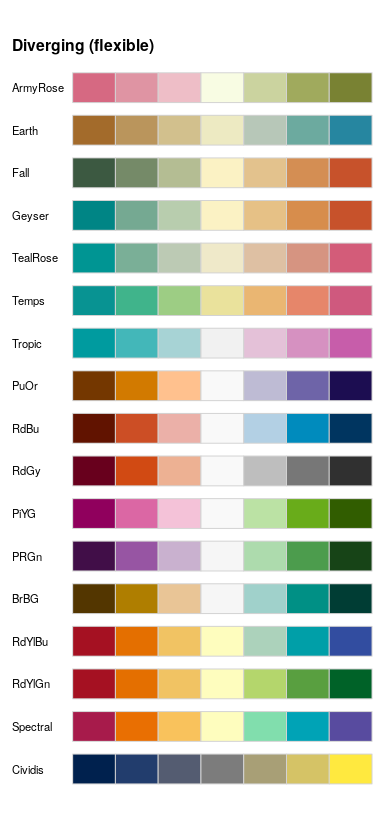
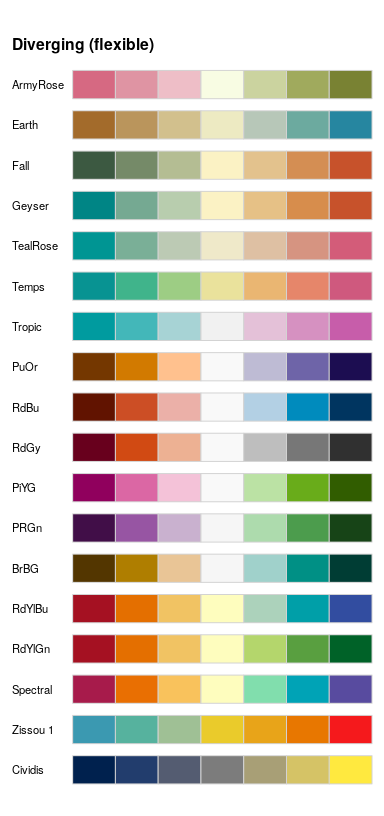
update web page with recent changes
git-svn-id: svn://svn.r-forge.r-project.org/svnroot/colorspace@470 edb9625f-4e0d-4859-8d74-9fd3b1da38cb

diff --git a/www/articles/hcl_palettes.html b/www/articles/hcl_palettes.html
@@ -127,7 +127,7 @@
 <li>
 <em>Diverging:</em> Designed for coding ordered/numeric information around a central neutral value, i.e., where colors diverge from neutral to two extremes.</li>
 </ul>
-<p>The corresponding functions are <code><a href="../reference/hcl_palettes.html">qualitative_hcl()</a></code>, <code><a href="../reference/hcl_palettes.html">sequential_hcl()</a></code>, and <code><a href="../reference/hcl_palettes.html">diverging_hcl()</a></code>. Their construction principles are exemplified in the following color swatches and explained in more detail below. The desaturated palettes bring out clearly that luminance differences (= light-dark contrasts), or the lack thereof, are crucial for coding the different kinds of palettes.</p>
+<p>The corresponding functions are <code><a href="../reference/hcl_palettes.html">qualitative_hcl()</a></code>, <code><a href="../reference/hcl_palettes.html">sequential_hcl()</a></code>, and <code><a href="../reference/hcl_palettes.html">diverging_hcl()</a></code>. Their construction principles are exemplified in the following color swatches and explained in more detail below. The desaturated palettes bring out clearly that luminance differences (= light-dark contrasts) are crucial for sequential and diverging palettes while qualitative palettes are balanced at the same luminance.</p>
 <p><img src="hcl_palettes_files/figure-html/hcl-palettes-principles-1.png" width="100%" style="display: block; margin: auto;"></p>
 <p>More details about the construction of such palettes is provided in the following while the article on <a href="palette_visualization.html">Palette Visualization and Assessment</a> introduces further tools to better understand the properties of color palettes.</p>
 <p>To facilitate obtaining good sets of colors, HCL parameter combinations that yield useful palettes are accessible by name. These can be listed using the function <code><a href="../reference/hcl_palettes.html">hcl_palettes()</a></code>:</p>
@@ -189,20 +189,20 @@
 <div id="sequential-palettes-single-hue" class="section level2">
 <h2 class="hasAnchor">
 <a href="#sequential-palettes-single-hue" class="anchor"></a>Sequential palettes (single-hue)</h2>
-<p><code><a href="../reference/hcl_palettes.html">sequential_hcl()</a></code> codes the underlying numeric values by a monotonic sequence of increasing (or decreasing) luminance. Thus, the <code>l</code> argument should provide a vector of length 2 with starting and ending luminance (equivalently, <code>l1</code> and <code>l2</code> can be used). Without chroma (i.e., <code>c = 0</code>), this simply corresponds to a grayscale palette like <code><a href="https://www.rdocumentation.org/packages/grDevices/topics/gray.colors">gray.colors()</a></code>, see “Grays” and “Light Grays” below.</p>
+<p><code><a href="../reference/hcl_palettes.html">sequential_hcl()</a></code> codes the underlying numeric values by a monotonic sequence of increasing (or decreasing) luminance. Thus, the function’s <code>l</code> argument should provide a vector of length 2 with starting and ending luminance (equivalently, <code>l1</code> and <code>l2</code> can be used). Without chroma (i.e., <code>c = 0</code>), this simply corresponds to a grayscale palette like <code><a href="https://www.rdocumentation.org/packages/grDevices/topics/gray.colors">gray.colors()</a></code>, see “Grays” and “Light Grays” below.</p>
 <p>For adding chroma, a simple strategy would be to pick a single hue (via <code>h</code> or <code>h1</code>) and then decrease chroma from some value (<code>c</code> or <code>c1</code>) to zero (i.e., gray) along with increasing luminance. For bringing out the extremes (a dark high-chroma color vs. a light gray) this is already very effective, see “Blues 2”, “Purples 2”, “Reds 2”, and “Greens 2”.</p>
-<p>For distinguishing also colors in the middle two strategies can be employed: (a) Hue can be varied as well by specifying an interval of hues in <code>h</code> (or beginning hue <code>h1</code> and ending hue <code>h2</code>). More details are provided in the next section. (b) Instead of a decreasing chroma a triangular chroma trajectory can be employed from <code>c1</code> over <code>cmax</code> to <code>c2</code> (or equivalently a vector <code>c</code> of length 3). This yields high-chroma colors in the middle of the palette that are more easily distinguished from the dark and light extremes. See “Blues 3”, “Purples 3”, “Reds 3”, and “Greens 3” below.</p>
-<p>Instead of employing linear trajectories in the chroma or luminance coordinates some palettes employ a power transformation of the chroma and/or luminance trajectory. Either a vector <code>power</code> of length 2 or separate <code>p1</code> (for chroma) and <code>p2</code> (for luminance) can be specified. If missing, the latter defaults to the former.</p>
+<p>For distinguishing colors in the middle, two strategies can be employed: (a) Hue can be varied as well by specifying an interval of hues in <code>h</code> (or beginning hue <code>h1</code> and ending hue <code>h2</code>). More details are provided in the next section. (b) Instead of a decreasing chroma a triangular chroma trajectory can be employed from <code>c1</code> over <code>cmax</code> to <code>c2</code> (or equivalently a vector <code>c</code> of length 3). This yields high-chroma colors in the middle of the palette that are more easily distinguished from the dark and light extremes. See “Blues 3”, “Purples 3”, “Reds 3”, and “Greens 3” below.</p>
+<p>Instead of employing linear trajectories in the chroma or luminance coordinates, some palettes employ a power transformation of the chroma and/or luminance trajectory. Either a vector <code>power</code> of length 2 or separate <code>p1</code> (for chroma) and <code>p2</code> (for luminance) can be specified. If missing, the latter defaults to the former.</p>
 <div class="sourceCode" id="cb14"><pre class="sourceCode r"><code class="sourceCode r"><a class="sourceLine" id="cb14-1" title="1"><span class="kw"><a href="../reference/hcl_palettes.html">hcl_palettes</a></span>(<span class="st">"sequential (single-hue)"</span>, <span class="dt">n =</span> <span class="dv">7</span>, <span class="dt">plot =</span> <span class="ot">TRUE</span>)</a></code></pre></div>
 <p><img src="hcl_palettes_files/figure-html/hcl-palettes-sequentials-1.png" width="70%" style="display: block; margin: auto;"></p>
-<p>All except the last palette are inspired by the <em>ColorBrewer.org</em> palettes with the same base name <span class="citation">(Harrower and Brewer 2003)</span> but restricted to a single hue only. They are intended for a white/light background. The last palette is taken from the scientific color maps of <span class="citation">Crameri (2018)</span> and is intended for a black/dark background and hence the order is reversed starting from a light blue (not a light gray).</p>
+<p>All except the last palette are inspired by the <em>ColorBrewer.org</em> palettes with the same base name <span class="citation">(Harrower and Brewer 2003)</span> but restricted to a single hue only. They are intended for a white/light background. The last palette (Oslo) is taken from the scientific color maps of <span class="citation">Crameri (2018)</span> and is intended for a black/dark background and hence the order is reversed starting from a light blue (not a light gray).</p>
 <p>To distinguish many colors in a sequential palette it is important to have a strong contrast on the luminance axis, possibly enhanced by an accompanying pronounced variation in chroma. When only a few colors are needed (e.g., for coding an ordinal categorical variable with few levels) then a lower luminance contrast may suffice.</p>
 </div>
 <div id="sequential-palettes-multi-hue" class="section level2">
 <h2 class="hasAnchor">
 <a href="#sequential-palettes-multi-hue" class="anchor"></a>Sequential palettes (multi-hue)</h2>
-<p>To not only bring out extreme colors in a sequential palette but also better distinguish middle colors it is a common strategy to employ a sequence of hues. Thus, the basis of such a palette is still a monotonic luminance sequence as above (combined with a monotonic or triangular chroma sequence). But, instead of a single hue, an interval of hues in <code>h</code> (or beginning hue <code>h1</code> and ending hue <code>h2</code>) is specified.</p>
-<p><code><a href="../reference/hcl_palettes.html">sequential_hcl()</a></code> allows to combine variations in hue (<code>h</code> and <code>h1</code>/<code>h2</code>, respectively), chroma (<code>c</code> and <code>c1</code>/<code>c2</code>/<code>cmax</code>, respectively), luminance (<code>l</code> and <code>l1</code>/<code>l2</code>, respectively), and power transformations for the chroma and luminance trajectories (<code>power</code> and <code>p1</code>/<code>p2</code>, respectively). This yields a broad variety of sequential palettes, including many that closely match other well-known color palettes. The plot below shows all the named multi-hue sequential palettes in <em>colorspace</em>:</p>
+<p>To not only bring out extreme colors in a sequential palette but also better distinguish middle colors it is a common strategy to employ a sequence of hues. Thus, the basis of such a palette is still a monotonic luminance sequence as above (combined with a monotonic or triangular chroma sequence). But rather than using a single hue, an interval of hues in <code>h</code> (or beginning hue <code>h1</code> and ending hue <code>h2</code>) can be specified.</p>
+<p><code><a href="../reference/hcl_palettes.html">sequential_hcl()</a></code> allows combined variations in hue (<code>h</code> and <code>h1</code>/<code>h2</code>, respectively), chroma (<code>c</code> and <code>c1</code>/<code>c2</code>/<code>cmax</code>, respectively), luminance (<code>l</code> and <code>l1</code>/<code>l2</code>, respectively), and power transformations for the chroma and luminance trajectories (<code>power</code> and <code>p1</code>/<code>p2</code>, respectively). This yields a broad variety of sequential palettes, including many that closely match other well-known color palettes. The plot below shows all the named multi-hue sequential palettes in <em>colorspace</em>:</p>
 <ul>
 <li>“Purple-Blue” to “Terrain 2” are various palettes created during the development of <em>colorspace</em>, e.g., by <span class="citation">Zeileis, Hornik, and Murrell (2009)</span> or <span class="citation">Stauffer et al. (2015)</span> among others.</li>
 <li>“Viridis” to “Inferno” closely match the palettes that <span class="citation">Smith and Van der Walt (2015)</span> developed for <em>matplotlib</em> and that gained popularity recently.</li>
@@ -324,6 +324,7 @@ j = \left(1 + \frac{|c_\max - c_1|}{|c_\max - c_2|} \right)^{-1}
 <ul>
 <li>“ArmyRose” to “Tropic” closely match the palettes of the same name from <em>CARTO</em> <span class="citation">(CARTO 2019)</span>.</li>
 <li>“PuOr” to “Spectral” closely match the palettes of the same name from <em>ColorBrewer.org</em> <span class="citation">(Harrower and Brewer 2003)</span>.</li>
+<li>“Zissou 1” closely matches the palette of the same name from <em>wesanderson</em> <span class="citation">(Ram and Wickham 2018)</span>.</li>
 <li>“Cividis” closely matches the palette of the same name from the <em>viridis</em> family <span class="citation">(Garnier 2018)</span>. Note that despite having two “arms” with blue vs. yellow colors and a low-chroma center color, this is probably better classified as a sequential palette due to the monotonic chroma going from dark to light. (See <a href="approximations.html">Approximating Palettes from Other Packages</a> for more details.)</li>
 </ul>
 <div class="sourceCode" id="cb22"><pre class="sourceCode r"><code class="sourceCode r"><a class="sourceLine" id="cb22-1" title="1"><span class="kw"><a href="../reference/divergingx_hcl.html">divergingx_palettes</a></span>(<span class="dt">n =</span> <span class="dv">7</span>, <span class="dt">plot =</span> <span class="ot">TRUE</span>)</a></code></pre></div>
@@ -363,6 +364,9 @@ j = \left(1 + \frac{|c_\max - c_1|}{|c_\max - c_2|} \right)^{-1}
 </div>
 <div id="ref-color:Ihaka:2003">
 <p>Ihaka, Ross. 2003. “Colour for Presentation Graphics.” In <em>Proceedings of the 3rd International Workshop on Distributed Statistical Computing, Vienna, Austria</em>, edited by Kurt Hornik, Friedrich Leisch, and Achim Zeileis. <a href="http://www.ci.tuwien.ac.at/Conferences/DSC-2003/Proceedings/" class="uri">http://www.ci.tuwien.ac.at/Conferences/DSC-2003/Proceedings/</a>.</p>
+</div>
+<div id="ref-color:wesanderson">
+<p>Ram, Karthik, and Hadley Wickham. 2018. <em><span style="font-style:normal;">Wesanderson</span>: A Wes Anderson Palette Generator</em>. <a href="https://CRAN.R-project.org/package=wesanderson" class="uri">https://CRAN.R-project.org/package=wesanderson</a>.</p>
 </div>
 <div id="ref-color:Smith+VanDerWalt:2015">
 <p>Smith, Nathaniel, and Stéfan Van der Walt. 2015. “A Better Default Colormap for <em>Matplotlib</em>.” In <em>SciPy 2015 – Scientific Computing with <span class="sans-serif">Python</span></em>. Austin. <a href="https://www.youtube.com/watch?v=xAoljeRJ3lU" class="uri">https://www.youtube.com/watch?v=xAoljeRJ3lU</a>.</p>

diff --git a/www/articles/colorspace.html b/www/articles/colorspace.html
@@ -158,15 +158,15 @@
 <div id="choosing-hcl-based-color-palettes" class="section level2">
 <h2 class="hasAnchor">
 <a href="#choosing-hcl-based-color-palettes" class="anchor"></a>Choosing HCL-based color palettes</h2>
-<p>The <em>colorspace</em> package ships with a wide range of predefined color palettes, specified through suitable trajectories in the HCL (hue-chroma-luminance) color space. A quick overview can be gained easily with <code><a href="../reference/hcl_palettes.html">hcl_palettes()</a></code>:</p>
+<p>The <em>colorspace</em> package ships with a wide range of predefined color palettes, specified through suitable trajectories in the HCL (hue-chroma-luminance) color space. A quick overview can be gained easily with the <code><a href="../reference/hcl_palettes.html">hcl_palettes()</a></code> function:</p>
 <div class="sourceCode" id="cb3"><pre class="sourceCode r"><code class="sourceCode r"><a class="sourceLine" id="cb3-1" title="1"><span class="kw"><a href="https://www.rdocumentation.org/packages/base/topics/library">library</a></span>(<span class="st">"colorspace"</span>)</a>
 <a class="sourceLine" id="cb3-2" title="2"><span class="kw"><a href="../reference/hcl_palettes.html">hcl_palettes</a></span>(<span class="dt">plot =</span> <span class="ot">TRUE</span>)</a></code></pre></div>
 <p><img src="colorspace_files/figure-html/hcl-palettes-1.png" width="100%" style="display: block; margin: auto auto auto 0;"></p>
-<p>Using the names from the plot above and a desired number of colors in the palette a suitable color vector can be easily computed, e.g.,</p>
+<p>A suitable vector of colors can be easily computed by specifying the desired number of colors and palette name (see the plot above), e.g.,</p>
 <div class="sourceCode" id="cb4"><pre class="sourceCode r"><code class="sourceCode r"><a class="sourceLine" id="cb4-1" title="1">q4 &lt;-<span class="st"> </span><span class="kw"><a href="../reference/hcl_palettes.html">qualitative_hcl</a></span>(<span class="dv">4</span>, <span class="dt">palette =</span> <span class="st">"Dark 3"</span>)</a>
 <a class="sourceLine" id="cb4-2" title="2">q4</a></code></pre></div>
 <pre><code>## [1] "#E16A86" "#909800" "#00AD9A" "#9183E6"</code></pre>
-<p>The functions <code><a href="../reference/hcl_palettes.html">sequential_hcl()</a></code>, and <code><a href="../reference/hcl_palettes.html">diverging_hcl()</a></code> work analogously. Additionally, their hue/chroma/luminance parameters can be modified, thus allowing to easily customize each palette. Moreover, the <code><a href="../reference/choose_palette.html">choose_palette()</a></code>/<code><a href="../reference/choose_palette.html">hclwizard()</a></code> app provide convenient user interfaces to do the customization interactively. Finally, even more flexible diverging HCL palettes are provided by <code><a href="../reference/divergingx_hcl.html">divergingx_hcl()</a></code>.</p>
+<p>The functions <code><a href="../reference/hcl_palettes.html">sequential_hcl()</a></code>, and <code><a href="../reference/hcl_palettes.html">diverging_hcl()</a></code> work analogously. Additionally, their hue/chroma/luminance parameters can be modified, thus allowing to easily customize each palette. Moreover, the <code><a href="../reference/choose_palette.html">choose_palette()</a></code>/<code><a href="../reference/choose_palette.html">hclwizard()</a></code> app provide convenient user interfaces to perform palette customization interactively. Finally, even more flexible diverging HCL palettes are provided by <code><a href="../reference/divergingx_hcl.html">divergingx_hcl()</a></code>.</p>
 </div>
 <div id="usage-with-base-graphics" class="section level2">
 <h2 class="hasAnchor">
@@ -185,12 +185,12 @@
 <a href="#usage-with-ggplot2" class="anchor"></a>Usage with <em>ggplot2</em>
 </h2>
 <p>To plug the HCL color palettes into <em>ggplot2</em> graphics suitable discrete and/or continuous <em>gglot2</em> color scales are provided. The scales are called via the scheme <code>scale_&lt;aesthetic&gt;_&lt;datatype&gt;_&lt;colorscale&gt;()</code>, where <code>&lt;aesthetic&gt;</code> is the name of the aesthetic (<code>fill</code>, <code>color</code>, <code>colour</code>), <code>&lt;datatype&gt;</code> is the type of the variable plotted (<code>discrete</code> or <code>continuous</code>) and <code>&lt;colorscale&gt;</code> sets the type of the color scale used (<code>qualitative</code>, <code>sequential</code>, <code>diverging</code>, <code>divergingx</code>).</p>
-<p>To illustrate their usage two simple examples are shown using the qualitative <code>Dark 3</code> and sequential <code>Purples 3</code> palettes that were also employed above. First, semi-transparent shaded densities of the sepal length from the iris data are shown, grouped by species.</p>
+<p>To illustrate their usage two simple examples are shown using the qualitative <code>Dark 3</code> and sequential <code>Purples 3</code> palettes that were also employed above. For the first example, semi-transparent shaded densities of the sepal length from the iris data are shown, grouped by species.</p>
 <div class="sourceCode" id="cb8"><pre class="sourceCode r"><code class="sourceCode r"><a class="sourceLine" id="cb8-1" title="1"><span class="kw"><a href="https://www.rdocumentation.org/packages/base/topics/library">library</a></span>(<span class="st">"ggplot2"</span>)</a>
 <a class="sourceLine" id="cb8-2" title="2"><span class="kw"><a href="https://ggplot2.tidyverse.org/reference/ggplot.html">ggplot</a></span>(iris, <span class="kw"><a href="https://ggplot2.tidyverse.org/reference/aes.html">aes</a></span>(<span class="dt">x =</span> Sepal.Length, <span class="dt">fill =</span> Species)) <span class="op">+</span><span class="st"> </span><span class="kw"><a href="https://ggplot2.tidyverse.org/reference/geom_density.html">geom_density</a></span>(<span class="dt">alpha =</span> <span class="fl">0.6</span>) <span class="op">+</span></a>
 <a class="sourceLine" id="cb8-3" title="3"><span class="st">  </span><span class="kw"><a href="../reference/scale_colour_discrete_qualitative.html">scale_fill_discrete_qualitative</a></span>(<span class="dt">palette =</span> <span class="st">"Dark 3"</span>)</a></code></pre></div>
 <p><img src="colorspace_files/figure-html/iris-ggplot-1.png" width="100%" style="display: block; margin: auto auto auto 0;"></p>
-<p>The sequential palette is used to code the cut levels in a scatter of price by carat in the diamonds data (or rather a small subsample thereof). The scale function first generates six colors but then drops the first color because the light gray is too light in this display. (Alternatively, the chroma and luminance parameters could also be tweaked.)</p>
+<p>And for the second example the sequential palette is used to code the cut levels in a scatter of price by carat in the diamonds data (or rather a small subsample thereof). The scale function first generates six colors but then drops the first color because the light gray is too light here. (Alternatively, the chroma and luminance parameters could also be tweaked.)</p>
 <div class="sourceCode" id="cb9"><pre class="sourceCode r"><code class="sourceCode r"><a class="sourceLine" id="cb9-1" title="1">dsamp &lt;-<span class="st"> </span>diamonds[<span class="dv">1</span> <span class="op">+</span><span class="st"> </span><span class="dv">1</span><span class="op">:</span><span class="dv">1000</span> <span class="op">*</span><span class="st"> </span><span class="dv">50</span>, ]</a>
 <a class="sourceLine" id="cb9-2" title="2"><span class="kw"><a href="https://ggplot2.tidyverse.org/reference/ggplot.html">ggplot</a></span>(dsamp, <span class="kw"><a href="https://ggplot2.tidyverse.org/reference/aes.html">aes</a></span>(carat, price, <span class="dt">color =</span> cut)) <span class="op">+</span><span class="st"> </span><span class="kw"><a href="https://ggplot2.tidyverse.org/reference/geom_point.html">geom_point</a></span>() <span class="op">+</span></a>
 <a class="sourceLine" id="cb9-3" title="3"><span class="st">  </span><span class="kw"><a href="../reference/scale_colour_discrete_sequential.html">scale_color_discrete_sequential</a></span>(<span class="dt">palette =</span> <span class="st">"Purples 3"</span>, <span class="dt">nmax =</span> <span class="dv">6</span>, <span class="dt">order =</span> <span class="dv">2</span><span class="op">:</span><span class="dv">6</span>)</a></code></pre></div>
@@ -222,7 +222,7 @@
 <a class="sourceLine" id="cb11-4" title="4"><span class="kw"><a href="../reference/specplot.html">specplot</a></span>(s9, <span class="dt">type =</span> <span class="st">"o"</span>)</a></code></pre></div>
 <p><img src="colorspace_files/figure-html/allplots-sequential-1.png" width="100%" style="display: block; margin: auto;"></p>
 <p>Here, a heatmap (based on the well-known Maunga Whau volcano data) is used as a typical application for a sequential palette. The elevation of the volcano is brought out clearly, focusing with the dark colors on the higher elevations.</p>
-<p>The other two displays show that hue is constant in the palette while luminance and chroma vary. Luminance increases monotonically from dark to light (as required for a proper sequential palette). Chroma is triangular-shaped which allows to better distinguish the middle colors in the palette (compared to a monotonic chroma trajectory).</p>
+<p>The other two displays show that hue is constant in the palette while luminance and chroma vary. Luminance increases monotonically from dark to light (as required for a proper sequential palette). Chroma is triangular-shaped which allows to better distinguish the middle colors in the palette when compared to a monotonic chroma trajectory.</p>
 </div>
   </div>
 

diff --git a/www/articles/color_vision_deficiency.html b/www/articles/color_vision_deficiency.html
@@ -118,9 +118,9 @@
 <div id="overview" class="section level2">
 <h2 class="hasAnchor">
 <a href="#overview" class="anchor"></a>Overview</h2>
-<p>Using the physiologically-based model for simulating color vision deficiency (CVD) of <span class="citation">Machado, Oliveira, and Fernandes (2009)</span> different kinds of limitations can be emulated: deuteranope (green cone cells defective), protanope (red cone cells defective), and tritanope (blue cone cells defective). The workhorse function to do so is <code><a href="../reference/simulate_cvd.html">simulate_cvd()</a></code> which can take any vector of valid R colors and transform them according to a certain CVD transformation matrix and transformation equation. The transformation matrices have been established by <span class="citation">Machado, Oliveira, and Fernandes (2009)</span> and are provided in objects <code>protanomaly_cvd</code>, <code>deutanomaly_cvd</code>, and <code>tritanomaly_cvd</code>.</p>
-<p>The convenience interfaces <code><a href="../reference/simulate_cvd.html">deutan()</a></code>, <code><a href="../reference/simulate_cvd.html">protan()</a></code>, and <code><a href="../reference/simulate_cvd.html">tritan()</a></code> are the high-level functions for simulating the corresponding kind of color blindness with a given severity (calling <code><a href="../reference/simulate_cvd.html">simulate_cvd()</a></code> internally).</p>
-<p>For further guidance on color blindness in relation to statistical graphics see <span class="citation">Lumley (2006)</span> which accompanies the R package <em>dichromat</em> <span class="citation">(Lumley 2013)</span> and is based on earlier emulation techniques <span class="citation">(Viénot et al. 1995; Brettel, Viénot, and Mollon 1997; Viénot, Brettel, and Mollon 1999)</span>.</p>
+<p>Different kinds of limitations can be emulated using the physiologically-based model for simulating color vision deficiency (CVD) of <span class="citation">Machado, Oliveira, and Fernandes (2009)</span>: deuteranomaly (green cone cells defective), protanomaly (red cone cells defective), and tritanomaly (blue cone cells defective). While most other CVD simulations handle only dichromacy, where one of three cones is non-functional, <span class="citation">Machado, Oliveira, and Fernandes (2009)</span> provides a unified model of both dichromacy and anomalous trichromacy, where one cone has shifted spectral sensitivity. As anomalous trichromacy is the most common form of color vision deficiency, it is important to emulate along with the rarer, but more severe dichromacy.</p>
+<p>The workhorse function to emulate color vision deficiencies is <code><a href="../reference/simulate_cvd.html">simulate_cvd()</a></code> which can take any vector of valid R colors and transform them according to a certain CVD transformation matrix and transformation equation. The transformation matrices have been established by <span class="citation">Machado, Oliveira, and Fernandes (2009)</span> and are provided in objects <code>protanomaly_cvd</code>, <code>deutanomaly_cvd</code>, and <code>tritanomaly_cvd</code>. The convenience interfaces <code><a href="../reference/simulate_cvd.html">deutan()</a></code>, <code><a href="../reference/simulate_cvd.html">protan()</a></code>, and <code><a href="../reference/simulate_cvd.html">tritan()</a></code> are the high-level functions for simulating the corresponding kind of color blindness with a given <code>severity</code> (calling <code><a href="../reference/simulate_cvd.html">simulate_cvd()</a></code> internally). A severity of <code>1</code> corresponds to dichromacy, <code>0</code> to normal color vision, and intermediate values to varying severities of anomalous trichromacy.</p>
+<p>For further guidance on color blindness in relation to statistical graphics see <span class="citation">Lumley (2006)</span> which accompanies the R package dichromat <span class="citation">(Lumley 2013)</span> and is based on earlier emulation techniques <span class="citation">(Viénot et al. 1995; Brettel, Viénot, and Mollon 1997; Viénot, Brettel, and Mollon 1999)</span>.</p>
 </div>
 <div id="illustration-heatmap-with-sequential-palette" class="section level2">
 <h2 class="hasAnchor">
@@ -162,7 +162,7 @@
 <p>CARTO. 2019. “CARTOColors – Data-Driven Color Schemes.” <a href="https://carto.com/carto-colors/" class="uri">https://carto.com/carto-colors/</a>.</p>
 </div>
 <div id="ref-color:Lumley:2006">
-<p>Lumley, Thomas. 2006. “Color Coding and Color Blindness in Statistical Graphics.” <em>ASA Statistical Computing &amp; Graphics Newsletter</em> 17 (2): 4–7. <a href="http://stat-computing.org/newletter/issues/scgn-17-2.pdf" class="uri">http://stat-computing.org/newletter/issues/scgn-17-2.pdf</a>.</p>
+<p>Lumley, Thomas. 2006. “Color Coding and Color Blindness in Statistical Graphics.” <em>ASA Statistical Computing &amp; Graphics Newsletter</em> 17 (2): 4–7. <a href="http://stat-computing.org/newsletter/issues/scgn-17-2.pdf" class="uri">http://stat-computing.org/newsletter/issues/scgn-17-2.pdf</a>.</p>
 </div>
 <div id="ref-color:dichromat">
 <p>———. 2013. <em><span style="font-style:normal;">Dichromat</span>: Color Schemes for Dichromats</em>. <a href="https://CRAN.R-project.org/package=dichromat" class="uri">https://CRAN.R-project.org/package=dichromat</a>.</p>

diff --git a/www/articles/approximations.html b/www/articles/approximations.html
@@ -130,7 +130,7 @@
 <p>See the discussion of <a href="hcl_palettes.html">HCL-based palettes</a> for more details. In the following sections <code><a href="../reference/specplot.html">specplot()</a></code> is used to compare the <a href="palette_visualization.html#hcl-and-rgb-spectrum">HCL spectrum</a> of the original palettes (top swatches, solid lines) and their HCL-based approximations (bottom swatches, dashed lines).</p>
 <p>Before, a selection of such approximations using <code><a href="../reference/specplot.html">specplot()</a></code> is highlighted and discussed in some more detail. Specifically, the graphic below shows two blue/green/yellow palettes (<code><a href="https://www.rdocumentation.org/packages/RColorBrewer/topics/ColorBrewer">RColorBrewer::brewer.pal(7, "YlGnBu")</a></code> and <code><a href="https://www.rdocumentation.org/packages/viridis/topics/reexports">viridis::viridis(7)</a></code>) and two purple/red/yellow (<code><a href="https://www.rdocumentation.org/packages/rcartocolor/topics/carto_pal">rcartocolor::carto_pal(7, "ag_Sunset")</a></code> and <code><a href="https://www.rdocumentation.org/packages/viridis/topics/reexports">viridis::plasma(7)</a></code>). Each panel compares the hue, chroma, and luminance trajectories of the original palettes (top swatches, solid lines) and their HCL-based approximations (bottom swatches, dashed lines). The palettes are not identical but very close for most colors. Note that also the chroma trajectories from the HCL palettes (green dashed lines) have some kinks which are due to fixing HCL coordinates at the boundaries of admissible RGB colors.</p>
 <p><img src="approximations_files/figure-html/brewer-carto-viridis-1.png" width="288"><img src="approximations_files/figure-html/brewer-carto-viridis-2.png" width="288"><img src="approximations_files/figure-html/brewer-carto-viridis-3.png" width="288"><img src="approximations_files/figure-html/brewer-carto-viridis-4.png" width="288"></p>
-<p>These graphics illustrate what sets the viridis palettes apart from other sequential palettes. While the hue and luminance trajectories of <code>"Viridis"</code> and <code>"YlGnBu"</code> are very similar, the chroma trajectories differ: While lighter colors (with high luminance) have low chroma for <code>"YlGnBu"</code>, they have increasing chroma for <code>"Viridis"</code>. Similarly, <code>"ag_Sunset"</code> and <code>"Plasma"</code> have similar hue and luminance trajectories but different chroma trajectories. The result is that the viridis palettes have rather high chroma throughout which does not work so well for sequential palettes on a white/light background as all shaded areas convey high “intensity”. However, they work better on a dark/black background. Also, they might be a reasonable alternative for qualitative palettes when grayscale printing should also work.</p>
+<p>These graphics illustrate what sets the viridis palettes apart from other sequential palettes. While the hue and luminance trajectories of <code>"Viridis"</code> and <code>"YlGnBu"</code> are very similar, the chroma trajectories differ: While lighter colors (with high luminance) have low chroma for <code>"YlGnBu"</code>, they have increasing chroma for <code>"Viridis"</code>. Similarly, <code>"ag_Sunset"</code> and <code>"Plasma"</code> have similar hue and luminance trajectories but different chroma trajectories. The result is that the viridis palettes have rather high chroma throughout which does not work as well for sequential palettes on a white/light background as all shaded areas convey high “intensity”. However, they work better on a dark/black background. Also, they might be a reasonable alternative for qualitative palettes when grayscale printing should also work.</p>
 <p>Another somewhat nonstandard palette from the viridis family is the cividis palette based on blue and yellow hues and hence safe for red-green deficient viewers. The figure below shows the corresponding <code><a href="../reference/specplot.html">specplot()</a></code> along with an HCL-based approximation. What is unusual about this palette: The hue and chroma trajectories would suggest a diverging palette, as there are two “arms” wth different hues and a zero-chroma point in the center. However, the luminance trajectory clearly indicates a sequential palette as colors go monotonically from dark to light. Due to this unusual mixture the palette cannot be composed using the trajectories discussed in the <a href="hcl_palettes.html#construction-details">construction details</a>.</p>
 <p><img src="approximations_files/figure-html/cividis-1.png" width="288"></p>
 <p>However, the tools in <em>colorspace</em> can still be employed to easily reconstruct the palette. One strategy would be to set up the trajectories manually, using a linear luminance, piecewise linear chroma, and piecewise constant hue:</p>

diff --git a/www/articles/color_spaces.html b/www/articles/color_spaces.html
@@ -118,9 +118,9 @@
 <div id="overview" class="section level2">
 <h2 class="hasAnchor">
 <a href="#overview" class="anchor"></a>Overview</h2>
-<p>At the core of the <em>colorspace</em> package there are various utilities for computing with color spaces (as the name conveys). Thus, the package helps to map various three-dimensional representations of color to each other, see <span class="citation">Ihaka (2003)</span>. A particularly important mapping is the one from the perceptually-based and device-independent color model HCL (Hue-Chroma-Luminance) to standard Red-Green-Blue (sRGB) which is the basis for color specifications in many systems based on the corresponding hex codes (e.g., in HTML but also in R). For completeness further standard color models are included as well in the package. The connections are illustrated in the following graph:</p>
+<p>At the core of the <em>colorspace</em> package are various utilities for computing with color spaces (as the name conveys). Thus, the package helps to map various three-dimensional representations of color to each other <span class="citation">(Ihaka 2003)</span>. A particularly important mapping is the one from the perceptually-based and device-independent color model HCL (Hue-Chroma-Luminance) to standard Red-Green-Blue (sRGB) which is the basis for color specifications in many systems based on the corresponding hex codes (e.g., in HTML but also in R). For completeness further standard color models are included as well in the package. The connections are illustrated in the following graph:</p>
 <p><img src="color_spaces_files/figure-html/color-spaces-1.png" width="912" style="display: block; margin: auto;"></p>
-<p>Color models that are (or try to be) perceptually-based are displayed with circles, other color models with rectangles. The corresponding classes and eponymous class constructors in <em>colorspace</em> are:</p>
+<p>Color models that are (or try to be) perceptually-based are displayed with circles and models that are not are displayed with rectangles. The corresponding classes and eponymous class constructors in <em>colorspace</em> are:</p>
 <ul>
 <li>
 <code><a href="../reference/RGB.html">RGB()</a></code> for the classic Red-Green-Blue color model that mixes three primary colors with different intensities to obtain a spectrum of colors. The advantage of this color model is (or was) that it corresponded to how computer and TV screens generated colors, hence it was widely adopted and still is the basis for color specifications in many systems. For example, the hex color codes are employed in HTML but also in R. However, the RGB model also has some important drawbacks: It does not take into account the output device properties, it is not perceptually uniform (a unit step within RGB does not produce a constant perceptual change in color), and it is unintuitive for humans to specify colors (say brown or pink) in this space. <span class="citation">(See Wikipedia 2019e.)</span>
@@ -176,7 +176,7 @@
 ## [1,] 70 50   0
 ## [2,] 70 50 120
 ## [3,] 70 50 240</code></pre>
-<p>These are pastel red (hue = 0), green (hue = 120), and blue (hue = 240) with moderate chroma and luminance. For display in other systems an sRGB representation might be needed:</p>
+<p>The resulting three colors are pastel red (hue = 0), green (hue = 120), and blue (hue = 240) with moderate chroma and luminance. For display in other systems an sRGB representation might be needed:</p>
 <div class="sourceCode" id="cb3"><pre class="sourceCode r"><code class="sourceCode r"><a class="sourceLine" id="cb3-1" title="1">(y &lt;-<span class="st"> </span><span class="kw">as</span>(x, <span class="st">"sRGB"</span>))</a></code></pre></div>
 <pre><code>##              R         G         B
 ## [1,] 0.8931564 0.5853740 0.6465459

diff --git a/www/articles/endrainbow.html b/www/articles/endrainbow.html
@@ -181,7 +181,7 @@
 <p>The shaded map below was taken from the web site of the <a href="https://influenza.rki.de/">Robert Koch-Institut</a> (Arbeitsgemeinschaft Influenza) and it shows the severity of influenza in Germany in week 8, 2019. The original color palette (left) is the classic rainbow ranging from “normal” (blue) to “strongly increased” (red). As all colors in the palette are very flashy and highly-saturated it is hard to grasp intuitively which areas are most affected by influenza. Also, the least interesting “normal” areas stand out as blue is the darkest color in the palette.</p>
 <p>As an alternative, a proper multi-hue <code><a href="../reference/hcl_palettes.html">sequential_hcl(99, "Purple-Yellow")</a></code> palette is used on the right. This has smooth gradients and the overall message can be grasped quickly, giving focus to the high-risk regions depicted with dark/colorful colors. However, the extremely sharp transitions between “normal” and “strongly increased” areas (e.g., in the North and the East) might indicate some overfitting in the underlying smoothing for the map.</p>
 <p><img src="screenshots/influenza-rainbow.png" style="width:49.0%"><img src="screenshots/influenza-purpleyellow.png" style="width:49.0%"></p>
-<p>Converting all colors to grayscale brings out even more clearly why the overall picture is so hard to grasp with the original palette: The gradients are discontinuous switching several times between bright and dark. Thus, it is hard to identify the high-risk regions with while this is more natural and straightforward with the HCL-based sequential palette.</p>
+<p>Converting all colors to grayscale brings out even more clearly why the overall picture is so hard to grasp with the original palette: The gradients are discontinuous switching several times between bright and dark. Thus, it is hard to identify the high-risk regions while this is more natural and straightforward with the HCL-based sequential palette.</p>
 <p><img src="screenshots/influenza-rainbow-gray.png" style="width:49.0%"><img src="screenshots/influenza-purpleyellow-gray.png" style="width:49.0%"></p>
 <p>Emulating deuteranope vision emphasizes the same problems as the desaturated version above but shows even more problems with the original palette.</p>
 <p><img src="screenshots/influenza-rainbow-deutan.png" style="width:49.0%"><img src="screenshots/influenza-purpleyellow-deutan.png" style="width:49.0%"></p>

diff --git a/www/articles/palette_visualization.html b/www/articles/palette_visualization.html
@@ -133,7 +133,7 @@
 <div id="color-swatches" class="section level2">
 <h2 class="hasAnchor">
 <a href="#color-swatches" class="anchor"></a>Color swatches</h2>
-<p>The function <code><a href="../reference/swatchplot.html">swatchplot()</a></code> is a convenience function for displaying collections of palettes that can be specified as lists or matrices of hex color codes. Essentially, it is just a call to the base graphics <code><a href="https://www.rdocumentation.org/packages/graphics/topics/rect">rect()</a></code> function but with heuristics for choosing default labels, margins, spacings, borders, etc. These are selected to work well for <code><a href="../reference/hcl_palettes.html">hcl_palettes()</a></code> and might need further tweaking in future versions.</p>
+<p>The function <code><a href="../reference/swatchplot.html">swatchplot()</a></code> is a convenience function for displaying collections of palettes that can be specified as lists or matrices of hex color codes. Essentially, it is just a call to the base graphics <code><a href="https://www.rdocumentation.org/packages/graphics/topics/rect">rect()</a></code> function but with heuristics for choosing default labels, margins, spacings, borders, etc. These heuristics are selected to work well for <code><a href="../reference/hcl_palettes.html">hcl_palettes()</a></code> and might need further tweaking in future versions of the package.</p>
 <p>As a first simple example, the properties of the three HCL axes are brought out by varying only one coordinate while keeping the other two fixed:</p>
 <div class="sourceCode" id="cb1"><pre class="sourceCode r"><code class="sourceCode r"><a class="sourceLine" id="cb1-1" title="1"><span class="kw"><a href="../reference/swatchplot.html">swatchplot</a></span>(</a>
 <a class="sourceLine" id="cb1-2" title="2">  <span class="st">"Hue"</span>       =<span class="st"> </span><span class="kw"><a href="../reference/hcl_palettes.html">sequential_hcl</a></span>(<span class="dv">5</span>, <span class="dt">h =</span> <span class="kw"><a href="https://www.rdocumentation.org/packages/base/topics/c">c</a></span>(<span class="dv">0</span>, <span class="dv">300</span>), <span class="dt">c =</span> <span class="kw"><a href="https://www.rdocumentation.org/packages/base/topics/c">c</a></span>(<span class="dv">60</span>, <span class="dv">60</span>), <span class="dt">l =</span> <span class="dv">65</span>),</a>

diff --git a/www/news/index.html b/www/news/index.html
@@ -153,6 +153,7 @@
 <ul>
 <li><p>New article/vignette “Somewhere over the Rainbow” with published examples of RGB rainbow palettes (or similar highly saturated and non-monotonic palettes).</p></li>
 <li><p>New sequential multi-hue palette: Purple-Yellow. This is a slightly improved version (i.e., with higher luminance contrast) of the palette used in Figure 4 of <a href="https://dx.doi.org/10.1175/BAMS-D-13-00155.1">Stauffer <em>et al.</em> (2015, BAMS)</a>.</p></li>
+<li><p>New flexible diverging palette Zissou 1 in divergingx_hcl(). This closely matches the palette of the same name in <em>wesanderson</em>. Note that this is rather unbalanced, has relatively low luminance contrasts and uses very high chroma throughout.</p></li>
 <li><p>New palette Cividis in <code><a href="../reference/divergingx_hcl.html">divergingx_hcl()</a></code> approximating the palette of the same name from the viridis family. While luminance increases monotonically from dark to light in the palette (thus indicating a <em>sequential</em> and not a <em>diverging</em> palette), the hue and chroma trajectories resemble a diverging pattern. Therefore, the flexibility of <code><a href="../reference/divergingx_hcl.html">divergingx_hcl()</a></code> is needed and the palette could not be approximated by <code><a href="../reference/hcl_palettes.html">sequential_hcl()</a></code>.</p></li>
 </ul>
 </div>

diff --git a/www/reference/divergingx_hcl.html b/www/reference/divergingx_hcl.html
@@ -264,8 +264,9 @@ palettes that can thus go through a non-gray neutral color (typically light
 yellow). Consequently, the chroma/luminance paths can be rather unbalanced
 between the two arms.</p>
 <p>With this additional flexibility various diverging palettes suggested by
-<a href='http://ColorBrewer.org/'>http://ColorBrewer.org/</a>, CARTO (<a href='https://carto.com/carto-colors/'>https://carto.com/carto-colors/</a>),
-or <span class="pkg">viridis</span> can be emulated.</p>
+<a href='http://ColorBrewer.org/'>http://ColorBrewer.org/</a> and CARTO (<a href='https://carto.com/carto-colors/'>https://carto.com/carto-colors/</a>),
+can be emulated along with the Zissou 1 palette from <span class="pkg">wesanderson</span> and
+Cividis from <span class="pkg">viridis</span>.</p>
 <p>Available CARTO palettes: ArmyRose, Earth, Fall, Geyser, TealRose, Temps, and
 Tropic (with Tropic also available in <code>diverging_hcl</code>).</p>
 <p>Available ColorBrewer.org palettes: PuOr, RdBu, RdGy, PiYG, PRGn, BrBG, RdYlBu,
